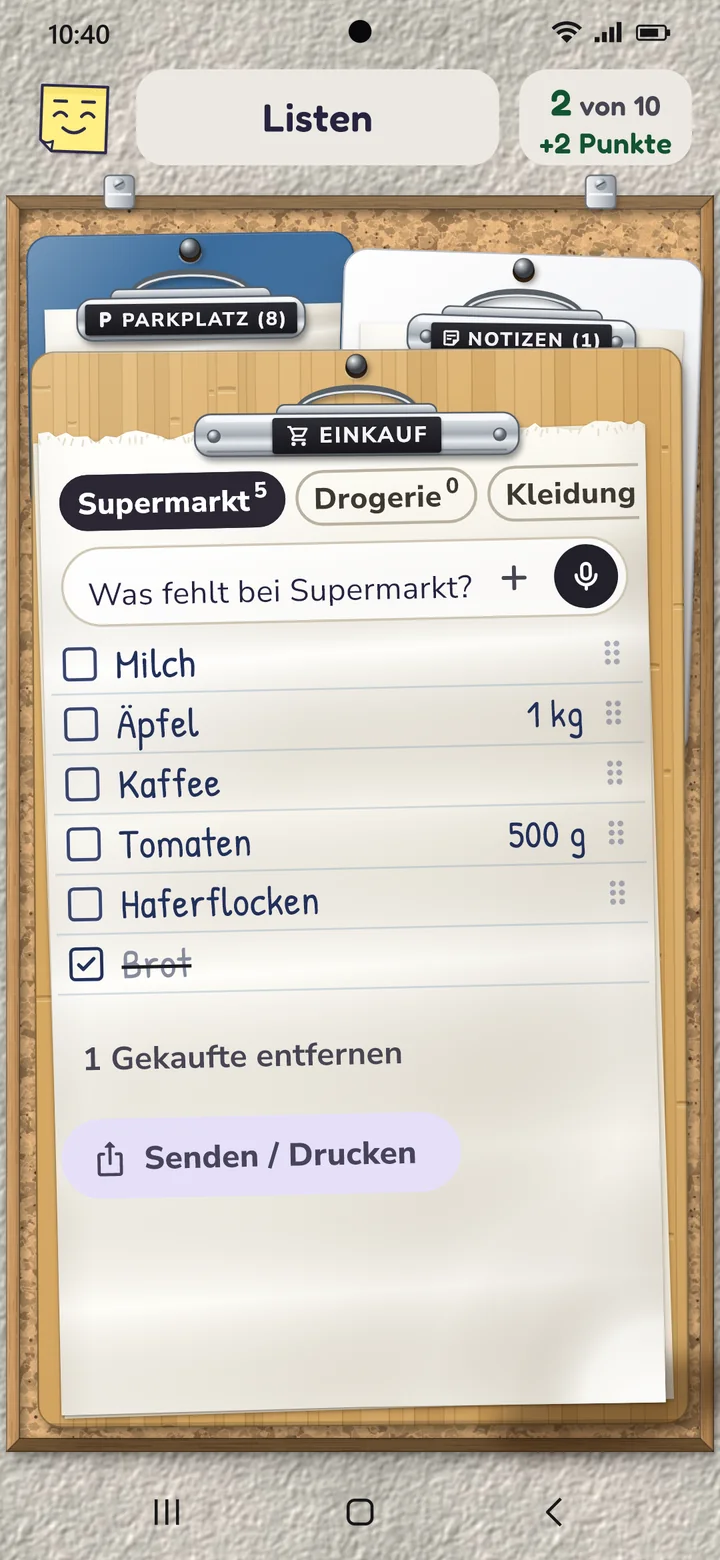
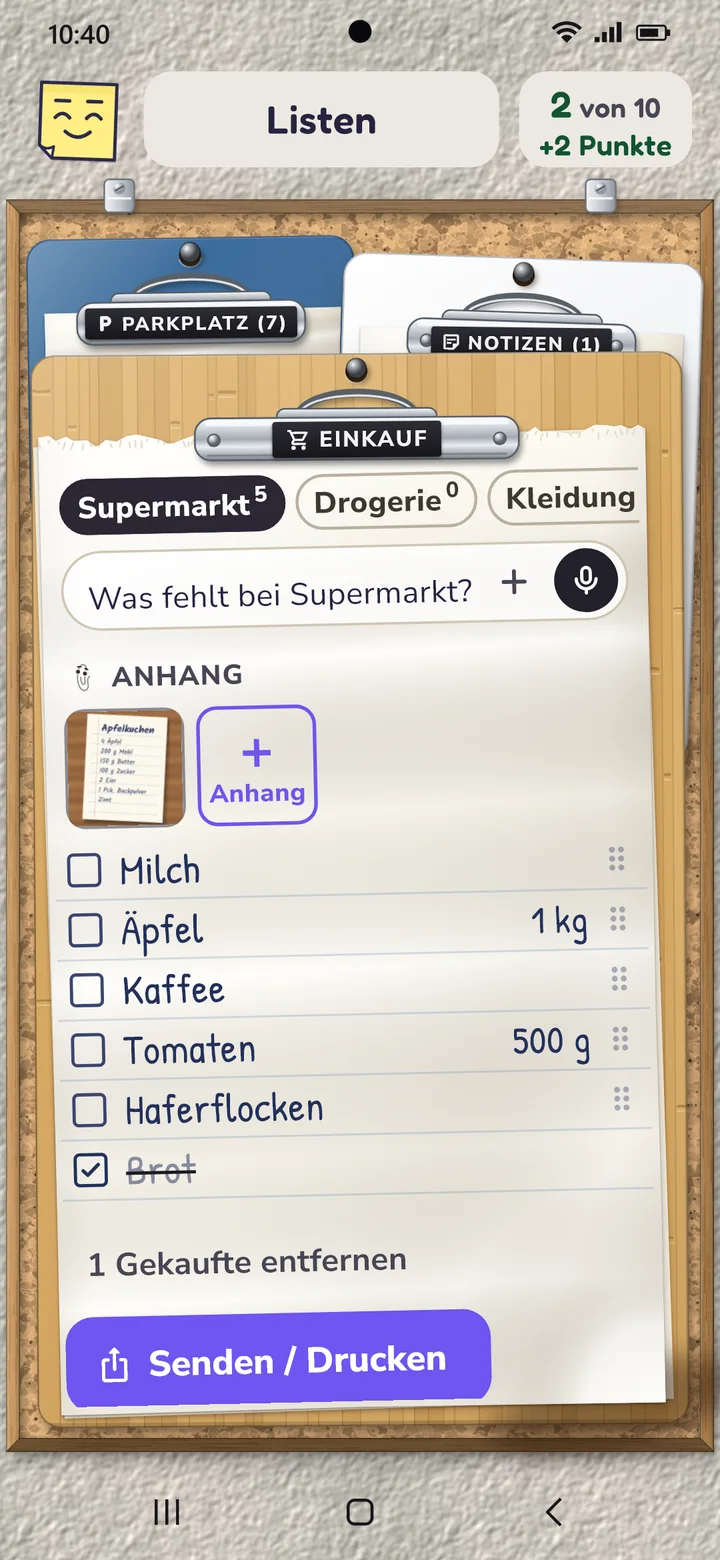
Webseite: Ablauf, Schule, grosses und kleine Widgets, Anhaenge; Datenschutz mit Anhaengen und Radio-Weckklang (Andreas 12.11.: Ja, alles online)

diff --git a/index.html b/index.html
@@ -42,7 +42,7 @@
   "image": "https://tenanddone.app/img/og.jpg",
   "screenshot": ["https://tenanddone.app/img/brett.webp", "https://tenanddone.app/img/zeitleiste.webp", "https://tenanddone.app/img/fortschritt.webp"],
   "offers": { "@type": "Offer", "price": "0", "priceCurrency": "EUR" },
-  "featureList": "10 Aufgaben am Tag, Top-Thema, Gewohnheiten-Tracker, Fokus-Timer, Kalender und Termine, Geburtstage und Jahrestage, Zeitleiste, Einkaufsliste, Notizen und Checklisten, Widget, Tablet, Drucken als PDF, Fortschritt, neun Stile"
+  "featureList": "10 Aufgaben am Tag, Top-Thema, Gewohnheiten-Tracker, Fokus-Timer, Kalender und Termine, Geburtstage und Jahrestage, Zeitleiste, Einkaufsliste, Notizen und Checklisten, Anhänge, Abläufe mit Countdown, Stundenplan, Widget, Tablet, Drucken als PDF, Fortschritt, neun Stile"
 }
 </script>
 <script type="application/ld+json">
@@ -142,6 +142,18 @@
         </figure>
         <figure>
           <picture>
+            <img src="img/ablauf.webp" width="720" height="1560" loading="lazy" alt="Ablauf „Zur Arbeit“ groß: los 07:40, da 08:00, ein grüner Ring mit 31 Minuten bis los, die Ampel auf Grün mit Haken und „im Plan“; jetzt Kaffee mit dem Knopf „Fertig – weiter“, darunter die Schritte Duschen, Anziehen und Weg mit Uhrzeiten.">
+          </picture>
+          <figcaption><h3>Der Ablauf</h3><span>Schritt für Schritt aus dem Haus. Der Ring zählt bis zum Losgehen, die Ampel zeigt, ob du in der Zeit bist.</span></figcaption>
+        </figure>
+        <figure>
+          <picture>
+            <img src="img/schule.webp" width="720" height="1560" loading="lazy" alt="Brett einer Schülerin, oben das Band „Schule bis 13:20 · jetzt Bio“ und „Morgen Test: Mathe“, darunter Zettel wie „Referat Geschichte“, „Zahnarzt“ und „Mama anrufen“.">
+          </picture>
+          <figcaption><h3>Die Schule</h3><span>Der Stundenplan liegt oben auf dem Brett: was gerade dran ist und ob morgen ein Test kommt. Er belegt keinen der zehn Plätze.</span></figcaption>
+        </figure>
+        <figure>
+          <picture>
             <img src="img/fortschritt.webp" width="720" height="1560" loading="lazy" alt="Fortschritt der letzten 4 Wochen: ein Baum aus kleinen Zetteln als Blätter, 229 erledigte Dinge und die Anzeige „Voller Schwung“.">
           </picture>
           <figcaption><h3>Der Fortschritt</h3><span>Woche, 4 Wochen, Jahr: was du geschafft hast, wann es gut läuft, welche Gewohnheiten halten. Jedes erledigte Ding wird ein Blatt am Baum.</span></figcaption>
@@ -150,25 +162,15 @@
           <picture>
             <img src="img/listen.webp" width="720" height="1560" loading="lazy" alt="Listen als Klemmbretter: vorn die Einkaufsliste für den Supermarkt mit Milch, Äpfeln, Kaffee, Tomaten und Haferflocken, dahinter Parkplatz und Notizen.">
           </picture>
-          <figcaption><h3>Die Listen</h3><span>Einkaufsliste nach Läden, Parkplatz und Notizen. Einsprechen geht auch.</span></figcaption>
+          <figcaption><h3>Die Listen</h3><span>Einkaufsliste nach Läden, Parkplatz und Notizen. Einsprechen geht auch. Listen, Fotos und PDFs hängst du direkt an einen Zettel.</span></figcaption>
         </figure>
         <figure>
-          <img src="img/checkliste.webp" width="720" height="1560" loading="lazy" alt="Ein geöffneter Zettel „Steuer machen“ mit Checkliste: zwei von vier Punkten abgehakt, darunter der Knopf „Erledigt“.">
-          <figcaption><h3>Checkliste am Zettel</h3><span>Untertitel und Liste direkt an der Aufgabe. Abhaken, ergänzen, mitnehmen auf morgen.</span></figcaption>
+          <img src="img/widget_gross.webp" width="720" height="1560" loading="lazy" alt="Startbildschirm eines Android-Handys, fast ganz ausgefüllt vom großen Brett-Widget im Kork-Stil: oben der Morgen-Ablauf mit seinen Schritten, darunter zehn Zettel mit Kästchen zum Abhaken, Extras, eine Notiz und unten das Feld „Schreiben …“ mit Mikrofon.">
+          <figcaption><h3>Das große Widget</h3><span>Dein ganzer Tag auf dem Startbildschirm, im Stil deines Bretts: abhaken, den nächsten Ablauf-Schritt antippen, eine Notiz lesen, Neues schreiben oder einsprechen – ohne die App zu öffnen.</span></figcaption>
         </figure>
         <figure>
-          <img src="img/widget_kork.webp" width="720" height="1560" loading="lazy" alt="Startbildschirm eines Android-Handys mit dem Brett-Widget im Kork-Stil: neun Zettel mit Uhrzeit und Kästchen zum Abhaken und ein freier Platz, oben Mikrofon und Plus. Darunter das kleine Widget mit Mikrofon.">
-          <figcaption><h3>Das Widget</h3><span>Dein Tagesplan auf dem Startbildschirm, im Stil deines Bretts. Abhaken, hochzählen, Fokus Zeit starten – ohne die App zu öffnen. Darunter das kleine Widget für Android: Mikrofon antippen und lossprechen.</span></figcaption>
-        </figure>
-        <figure>
-          <img src="img/widget_klein.webp" width="720" height="1560" loading="lazy" alt="Startbildschirm eines Android-Handys mit dem Mini-Widget im Stil Bento: oben die Zahl offener Zettel, Mikrofon und Plus, darunter die nächsten Zettel mit Kästchen zum Abhaken.">
-          <figcaption><h3>Das Mini-Widget</h3><span>Deine nächsten Zettel auf kleinem Platz, zum Abhaken. Die Widgets folgen deinem Stil, hier Bento. Das Mini-Widget gibt es mit Premium.</span></figcaption>
-        </figure>
-        <figure>
-          <picture>
-            <img src="img/fenster.webp" width="720" height="1560" loading="lazy" alt="Stil Fenster: die Zettel kleben auf einer Fensterscheibe mit Blick auf Berge, außen eine Backsteinwand.">
-          </picture>
-          <figcaption><h3>Das Fenster</h3><span>Zettel auf der Scheibe, dahinter Meer, Berge, Stadt – oder dein eigenes Foto.</span></figcaption>
+          <img src="img/widget_klein.webp" width="720" height="1560" loading="lazy" alt="Startbildschirm eines Android-Handys mit drei kleinen Widgets: links „Nächste 5“ im Stil Bento mit Kästchen zum Abhaken, darunter das runde Ten-&amp;-Done-Symbol mit Mikrofon zum Einsprechen, rechts der Stundenplan des Tages mit Fächern und Uhrzeiten.">
+          <figcaption><h3>Die kleinen Widgets</h3><span>Links die nächsten fünf Zettel zum Abhaken (mit Premium), darunter ein Knopf zum Einsprechen, rechts der Stundenplan mit Ausfall und Tests (beide kostenlos).</span></figcaption>
         </figure>
       </div>
     </div>
@@ -183,15 +185,15 @@
       </div>
       <div class="grid2 grid3">
         <div class="feature wide"><span class="tag t-c" aria-hidden="true">🎙</span><div><h3>Einfach einsprechen</h3><p>Tipp aufs Mikrofon und sag, was ansteht. „Friseur am 3.11. um 13 Uhr“ wird ein Termin, „Bei Rewe Butter kaufen“ kommt auf die Einkaufsliste für Rewe. Am schnellsten geht es vom Startbildschirm: im Widget aufs Mikrofon tippen und lossprechen.</p></div></div>
-        <div class="feature"><span class="tag t-a" aria-hidden="true">10</span><div><h3>Zehn Plätze, ein Versprechen an dich</h3><p>Der elfte Gedanke muss warten. Ein Zettel ist dein Top-Thema. Du sagst fest zu, indem du den Knopf gedrückt hältst.</p></div></div>
+        <div class="feature"><span class="tag t-a" aria-hidden="true">10</span><div><h3>Zehn Plätze, ein Parkplatz für den Rest</h3><p>Der elfte Gedanke wartet auf dem Parkplatz, sonntags erinnert Tack dich daran. Ein Zettel ist dein Top-Thema. Du sagst fest zu, indem du den Knopf gedrückt hältst.</p></div></div>
         <div class="feature"><span class="tag t-b" aria-hidden="true">↻</span><div><h3>Gewohnheiten-Tracker</h3><p>Sport, Wasser trinken, kein Handy im Bett: Gewohnheiten erscheinen an ihren Tagen von selbst. Mit Strichliste und Serie.</p></div></div>
         <div class="feature"><span class="tag t-f" aria-hidden="true">⏱</span><div><h3>Fokus-Timer</h3><p>Handy umdrehen, die Fokus Zeit läuft. Auf Android ist „Nicht stören“ an, bis du es wieder hochnimmst. Auf dem iPhone zeigt der Sperrbildschirm die Restzeit.</p></div></div>
         <div class="feature"><span class="tag t-c" aria-hidden="true">📅</span><div><h3>Kalender und Zeitleiste</h3><p>Termine aus deinem Kalender kommen als Zettel aufs Brett, eigene landen in deinem Kalender – bei Google oder Apple, auf Wunsch mit Gästen. Tag oder Woche gibt es auch als PDF – für den Kühlschrank.</p></div></div>
         <div class="feature"><span class="tag t-f" aria-hidden="true">🎂</span><div><h3>Geburtstage und Jahrestage</h3><p>Sag einfach „Lena hat am 3. Mai Geburtstag“. Die App merkt es sich und erinnert dich ein paar Tage vorher.</p></div></div>
-        <div class="feature"><span class="tag t-a" aria-hidden="true">☰</span><div><h3>Einkaufsliste, Notizen, Checklisten</h3><p>Einkaufslisten, Notizen oder Checklisten auch per Sprache eingeben und an einen Zettel anhängen, ausdrucken oder per WhatsApp teilen.</p></div></div>
+        <div class="feature"><span class="tag t-a" aria-hidden="true">☰</span><div><h3>Listen, Notizen und Anhänge</h3><p>Einkaufslisten, Notizen oder Checklisten auch per Sprache eingeben, an einen Zettel anhängen, ausdrucken oder per WhatsApp teilen. Fotos und PDFs kommen direkt an den Zettel.</p></div></div>
         <div class="feature"><span class="tag t-c" aria-hidden="true">⛰</span><div><h3>Große Brocken in Schritten</h3><p>Ist dir etwas zu groß, teilst du es in drei bis fünf kleine Schritte. Aufs Brett kommt immer nur der nächste, der letzte ist der Gipfel.</p></div></div>
-        <div class="feature"><span class="tag t-a" aria-hidden="true">P</span><div><h3>Ein Parkplatz für alles andere</h3><p>Alles darf auf die Liste – aufs Brett kommen nur zehn. Der Rest wartet auf dem Parkplatz. Sonntags erinnert Tack dich an das, was dort schon lange steht.</p></div></div>
-        <div class="feature"><span class="tag t-f" aria-hidden="true">▦</span><div><h3>Widget für den Startbildschirm</h3><p>Dein Tagesplan im Stil deines Bretts. Abhaken, ohne die App zu öffnen. Und übers Mikrofon neue Aufgaben einsprechen.</p></div></div>
+        <div class="feature"><span class="tag t-a" aria-hidden="true">🏫</span><div><h3>Stundenplan für die Schule</h3><p>Einsprechen oder eintragen, dann steht der Schultag oben auf dem Brett – ohne einen der zehn Plätze. Ausfall und Vertretung mit einem Tipp, Tests und Klausuren am Tag vorher. Ferien kommen von selbst. Kostenlos.</p></div></div>
+        <div class="feature"><span class="tag t-b" aria-hidden="true">⏰</span><div><h3>Abläufe mit Countdown</h3><p>Kaffee, Duschen, Anziehen, Weg: jeder Schritt mit seiner Dauer. Ten &amp; Done rechnet aus, wann du anfangen musst, und weckt dich auf Wunsch. Ein Ablauf ist frei, mehr gibt es mit Premium.</p></div></div>
       </div>
     </div>
   </section>
@@ -279,6 +281,8 @@
             <li>Gewohnheiten, Fokus Zeit, Kalender</li>
             <li>Zeitleiste, Einkaufsliste, Parkplatz, Notizen</li>
             <li>Brett-Widget und Einsprechen</li>
+            <li>Stundenplan mit Widget</li>
+            <li>Ein Ablauf mit Countdown, ein Anhang je Zettel</li>
             <li>Fortschritt der Woche</li>
             <li>Stile Kork und Klar</li>
           </ul>
@@ -290,6 +294,7 @@
             <li>Dein eigenes Foto am Brett, dazu ein zweites Accessoire</li>
             <li>Fortschritt über 4 Wochen und das ganze Jahr</li>
             <li>Große Aufgaben in Schritten</li>
+            <li>Mehrere Abläufe und bis zu 5 Anhänge je Zettel</li>
             <li>Gäste zu Terminen einladen</li>
             <li>Zwei weitere Widgets: „Nächste 5“ und Liste</li>
             <li>Automatische Sicherung bei Google Drive (auf Android)</li>

diff --git a/en/index.html b/en/index.html
@@ -41,7 +41,7 @@
   "image": "https://tenanddone.app/img/og_en.jpg",
   "screenshot": ["https://tenanddone.app/img/brett_en.webp", "https://tenanddone.app/img/zeitleiste_en.webp", "https://tenanddone.app/img/fortschritt_en.webp"],
   "offers": { "@type": "Offer", "price": "0", "priceCurrency": "EUR" },
-  "featureList": "10 tasks a day, top task, habit tracker, focus timer, calendar and events, birthdays and anniversaries, timeline, shopping list, notes and checklists, widget, tablet, print as PDF, progress, nine styles"
+  "featureList": "10 tasks a day, top task, habit tracker, focus timer, calendar and events, birthdays and anniversaries, timeline, shopping list, notes and checklists, attachments, routines with a countdown, school timetable, widget, tablet, print as PDF, progress, nine styles"
 }
 </script>
 <script type="application/ld+json">
@@ -136,28 +136,32 @@
           <figcaption><h3>The timeline</h3><span>Your daily plan by time. Move notes with your finger, tap free time to plan it.</span></figcaption>
         </figure>
         <figure>
+          <picture>
+            <img src="../img/ablauf_en.webp" width="720" height="1560" loading="lazy" alt="The routine “Off to work” in full screen: leave 7:40, arrive 8:00, a green ring with 31 minutes until you leave, the traffic light on green with a check mark and “on track”; now Coffee with the button “Done – next”, below it the steps Shower, Get dressed and Commute with times.">
+          </picture>
+          <figcaption><h3>Routines</h3><span>Out of the house step by step. The ring counts down to leaving, the traffic light shows whether you are on time.</span></figcaption>
+        </figure>
+        <figure>
+          <picture>
+            <img src="../img/schule_en.webp" width="720" height="1560" loading="lazy" alt="A student’s board, at the top the band “School until 13:20 · now Biology” and “Test tomorrow: Math”, below it notes such as “History presentation”, “Dentist” and “Call Mom”.">
+          </picture>
+          <figcaption><h3>School</h3><span>Your timetable sits at the top of the board: what’s on right now and whether there’s a test tomorrow. It doesn’t take up any of the ten spots.</span></figcaption>
+        </figure>
+        <figure>
           <img src="../img/fortschritt_en.webp" width="720" height="1560" loading="lazy" alt="Progress over 4 weeks: a tree whose leaves are small notes, 229 things done and the gauge “Full swing”.">
           <figcaption><h3>Progress</h3><span>Week, 4 weeks, year: what you got done, when things go well, which habits stick. Every finished task becomes a leaf on your tree.</span></figcaption>
         </figure>
         <figure>
           <img src="../img/listen_en.webp" width="720" height="1560" loading="lazy" alt="Lists as clipboards: in front the supermarket shopping list with milk, apples, coffee, tomatoes and oats, behind it parking spot and notes.">
-          <figcaption><h3>Lists</h3><span>Shopping list per store, parking spot and notes. Saying them works too.</span></figcaption>
+          <figcaption><h3>Lists</h3><span>Shopping list per store, parking spot and notes. Saying them works too. Attach lists, photos and PDFs right to a note.</span></figcaption>
         </figure>
         <figure>
-          <img src="../img/checkliste_en.webp" width="720" height="1560" loading="lazy" alt="An open note “Do my taxes” with a checklist: two of four items checked, below it the “Done” button.">
-          <figcaption><h3>Checklist on a note</h3><span>Subtitle and list right on the task. Check off, add, carry over to tomorrow.</span></figcaption>
+          <img src="../img/widget_gross_en.webp" width="720" height="1560" loading="lazy" alt="Android home screen almost filled by the large board widget in cork style: the morning routine with its steps at the top, below it ten notes with check boxes, extras, a memo and at the bottom the field “Write …” with a microphone.">
+          <figcaption><h3>The large widget</h3><span>Your whole day on the home screen, in the style of your board: check off, tap the next routine step, read a memo, write or say something new – without opening the app.</span></figcaption>
         </figure>
         <figure>
-          <img src="../img/widget_kork_en.webp" width="720" height="1560" loading="lazy" alt="Android home screen with the board widget in cork style: nine notes with times and check boxes and one free spot, microphone and plus at the top. Below it the small widget with a microphone.">
-          <figcaption><h3>The widget</h3><span>Your daily plan on the home screen, in the style of your board. Check off, count up, start focus time – without opening the app. Below it the small widget for Android: tap the microphone and start talking.</span></figcaption>
-        </figure>
-        <figure>
-          <img src="../img/widget_klein_en.webp" width="720" height="1560" loading="lazy" alt="Android home screen with the mini widget in Bento style: the number of open notes at the top, microphone and plus, below it your next notes with check boxes.">
-          <figcaption><h3>The mini widget</h3><span>Your next notes in a small space, ready to check off. Widgets follow your style, Bento here. The mini widget comes with Premium.</span></figcaption>
-        </figure>
-        <figure>
-          <img src="../img/fenster_en.webp" width="720" height="1560" loading="lazy" alt="Window style: notes stuck on a pane of glass with a view of the mountains, a brick wall around it.">
-          <figcaption><h3>The window</h3><span>Notes on the glass, behind them sea, mountains, city – or your own photo.</span></figcaption>
+          <img src="../img/widget_klein_en.webp" width="720" height="1560" loading="lazy" alt="Android home screen with three small widgets: on the left “Next 5” in Bento style with check boxes, below it the round Ten &amp; Done icon with a microphone for speaking, on the right today’s timetable with subjects and times.">
+          <figcaption><h3>The small widgets</h3><span>On the left your next five notes to check off (with Premium), below it a button to just say something, on the right your timetable with cancelled lessons and tests (both free).</span></figcaption>
         </figure>
       </div>
     </div>
@@ -172,15 +176,15 @@
       </div>
       <div class="grid2 grid3">
         <div class="feature wide"><span class="tag t-c" aria-hidden="true">🎙</span><div><h3>Just say it</h3><p>Tap the mic and say what’s coming up. “Haircut on November 3 at 1 pm” becomes an event, “Buy milk and bread at Aldi” goes on your Aldi shopping list. It’s quickest from your home screen: tap the mic in the widget and start talking.</p></div></div>
-        <div class="feature"><span class="tag t-a" aria-hidden="true">10</span><div><h3>Ten spots, one promise to yourself</h3><p>The eleventh thought has to wait. One note is your top task. You commit by pressing and holding the button.</p></div></div>
+        <div class="feature"><span class="tag t-a" aria-hidden="true">10</span><div><h3>Ten spots, a parking spot for the rest</h3><p>The eleventh thought waits in the parking spot, and on Sundays Tack reminds you of it. One note is your top task. You commit by pressing and holding the button.</p></div></div>
         <div class="feature"><span class="tag t-b" aria-hidden="true">↻</span><div><h3>Habit tracker</h3><p>Exercise, drink water, no phone in bed: habits show up on their days by themselves. With a tally and a streak.</p></div></div>
         <div class="feature"><span class="tag t-f" aria-hidden="true">⏱</span><div><h3>Focus timer</h3><p>Flip your phone over and Focus Time runs. On Android, Do Not Disturb stays on until you pick it up again. On iPhone, the lock screen shows the time left.</p></div></div>
         <div class="feature"><span class="tag t-c" aria-hidden="true">📅</span><div><h3>Calendar and timeline</h3><p>Events from your calendar appear as notes on your board, your own go into your calendar – Google or Apple, with guests if you like. Your day or week also comes as a PDF – for the fridge.</p></div></div>
         <div class="feature"><span class="tag t-f" aria-hidden="true">🎂</span><div><h3>Birthdays and anniversaries</h3><p>Just say “Lena’s birthday is May 3”. The app remembers and reminds you a few days ahead.</p></div></div>
-        <div class="feature"><span class="tag t-a" aria-hidden="true">☰</span><div><h3>Shopping list, notes, checklists</h3><p>Enter shopping lists, notes or checklists by voice too, attach them to a note, print them or share them via WhatsApp.</p></div></div>
+        <div class="feature"><span class="tag t-a" aria-hidden="true">☰</span><div><h3>Lists, notes and attachments</h3><p>Enter shopping lists, notes or checklists by voice too, attach them to a note, print them or share them via WhatsApp. Photos and PDFs go right on the note.</p></div></div>
         <div class="feature"><span class="tag t-c" aria-hidden="true">⛰</span><div><h3>Big tasks in steps</h3><p>If something feels too big, split it into three to five small steps. Only the next one goes on the board, and the last one is the summit.</p></div></div>
-        <div class="feature"><span class="tag t-a" aria-hidden="true">P</span><div><h3>A parking spot for everything else</h3><p>Everything may go on the list – only ten go on the board. The rest waits in the parking spot. On Sundays Tack reminds you of what has been waiting there for a while.</p></div></div>
-        <div class="feature"><span class="tag t-f" aria-hidden="true">▦</span><div><h3>Home screen widget</h3><p>Your daily plan in the style of your board. Check things off without opening the app. And tap the mic to add new tasks by voice.</p></div></div>
+        <div class="feature"><span class="tag t-a" aria-hidden="true">🏫</span><div><h3>School timetable</h3><p>Say it or type it, and the school day sits at the top of your board – without taking one of the ten spots. Cancelled lessons and substitutes with one tap, tests and exams the day before. School holidays in Germany and Austria fill in by themselves. Free.</p></div></div>
+        <div class="feature"><span class="tag t-b" aria-hidden="true">⏰</span><div><h3>Routines with a countdown</h3><p>Coffee, shower, get dressed, commute: each step with its time. Ten &amp; Done works out when you need to start and wakes you if you like. One routine is free, more come with Premium.</p></div></div>
       </div>
     </div>
   </section>
@@ -268,6 +272,8 @@
             <li>Habits, Focus Time, calendar</li>
             <li>Timeline, shopping list, parking spot, notes</li>
             <li>Board widget and voice input</li>
+            <li>School timetable with widget</li>
+            <li>One routine with a countdown, one attachment per note</li>
             <li>Progress of the week</li>
             <li>Cork and Clear styles</li>
           </ul>
@@ -279,6 +285,7 @@
             <li>Your own photo on the board, plus a second accessory</li>
             <li>Progress over 4 weeks and the whole year</li>
             <li>Big tasks in steps</li>
+            <li>More routines and up to 5 attachments per note</li>
             <li>Invite guests to events</li>
             <li>Two more widgets: “Next 5” and list</li>
             <li>Automatic backup to Google Drive (on Android)</li>

diff --git a/datenschutz.html b/datenschutz.html
@@ -45,14 +45,18 @@
   <li><b>Bewegungssensor</b>, um zu erkennen, ob das Handy während der Fokus Zeit umgedreht liegt. Die Werte werden nicht gespeichert.</li>
   <li><b>Kalender</b>, nur wenn du ihn einschaltest. Die App zeigt deine Termine als Zettel. Legst du in der App einen Termin an oder trägst einen Geburtstag oder Jahrestag ein, schreibt sie ihn in deinen Kalender (auf Android den Google-Kalender, auf dem iPhone deinen Standardkalender, etwa iCloud oder Google); andere Termine ändert sie nicht. Lädst du Gäste ein, verschickt der Kalenderdienst (Google bzw. Apple) die Einladung an die E-Mail-Adressen, die du einträgst – dafür gelten dessen Datenschutzhinweise.</li>
   <li><b>Fotos</b>, nur das Bild, das du selbst für dein Brett oder die Fenster-Aussicht auswählst. Die App legt davon eine Kopie auf deinem Handy ab.</li>
+  <li><b>Anhänge an Zetteln</b> (Foto, Bild oder Screenshot, PDF), nur was du selbst anhängst – mit der Kamera, aus deinen Bildern oder aus deinen Dateien. Die App legt eine Kopie auf deinem Handy ab, Bilder verkleinert. Die Kamera nutzt sie nur, wenn du „Foto aufnehmen“ wählst.</li>
 </ul>
 <h2>Sicherung des Handys</h2>
 <p><b>Android:</b> Hast du auf deinem Handy die Google-Sicherung eingeschaltet, legt Android die Daten der App in deinem Google-Konto ab, damit du sie auf ein neues Handy mitnehmen kannst. Hast du eine Displaysperre (PIN, Muster oder Passwort), verschlüsselt Android die Sicherung damit. Dann kann sie nur öffnen, wer die Sperre kennt – auch Google nicht. Ohne Displaysperre verschlüsselt Google die Sicherung mit einem eigenen Schlüssel. Das macht Android, nicht die App; dafür gelten die Datenschutzhinweise von Google. Wir haben auf diese Sicherung keinen Zugriff. Ein- und ausschalten kannst du sie in den Android-Einstellungen.</p>
 <p><b>iPhone:</b> Ist das iCloud-Backup eingeschaltet, legt Apple die Daten der App in deiner iCloud ab, damit du sie auf ein neues iPhone mitnehmen kannst. Apple verschlüsselt das Backup. Ganz ohne Zugriff von Apple ist es nur, wenn du „Erweiterter Datenschutz für iCloud“ eingeschaltet hast. Das macht Apple, nicht die App; dafür gelten die Datenschutzhinweise von Apple. Wir haben darauf keinen Zugriff. Ein- und ausschalten kannst du es in den Einstellungen unter dein Name › iCloud › iCloud-Backup.</p>
 <h2>Sicherung mit Google Drive</h2>
-<p>Mit Premium kannst du auf Android freiwillig „Mit Google sichern“ einschalten. Dann legt die App eine Kopie deiner Daten (Zettel, Listen, Notizen, Einstellungen, Fotos fürs Brett, auch Termine, die als Zettel auf dem Brett stehen, und die Namen deiner Kalender) in einem versteckten App-Ordner deines eigenen Google Drive ab. Die App bekommt dafür nur Zugriff auf diesen einen Ordner (Berechtigung <code>drive.appdata</code>), nicht auf deine anderen Dateien in Google Drive. Außerdem sieht die App die E-Mail-Adresse des gewählten Google-Kontos, um sie dir anzuzeigen; sie bleibt auf deinem Gerät.</p>
+<p>Mit Premium kannst du auf Android freiwillig „Mit Google sichern“ einschalten. Dann legt die App eine Kopie deiner Daten (Zettel, Listen, Notizen, Einstellungen, Fotos fürs Brett, Anhänge an Zetteln, auch Termine, die als Zettel auf dem Brett stehen, und die Namen deiner Kalender) in einem versteckten App-Ordner deines eigenen Google Drive ab. Die App bekommt dafür nur Zugriff auf diesen einen Ordner (Berechtigung <code>drive.appdata</code>), nicht auf deine anderen Dateien in Google Drive. Außerdem sieht die App die E-Mail-Adresse des gewählten Google-Kontos, um sie dir anzuzeigen; sie bleibt auf deinem Gerät.</p>
 <p>Die Daten gehen direkt von deinem Gerät zu Google, nicht über uns. Wir haben keinen Zugriff darauf und sehen sie nie. Die App nutzt die Daten aus Google Drive nur, um deine Sicherung abzulegen und auf Wunsch zurückzuholen; sie werden nicht weitergegeben und nicht für Werbung genutzt. Die Nutzung entspricht der <a href="https://developers.google.com/terms/api-services-user-data-policy">Google API Services User Data Policy</a> einschließlich der Anforderungen zur eingeschränkten Nutzung (Limited Use). Für die Speicherung gelten die Datenschutzhinweise von Google.</p>
 <p>Ausschalten und die Sicherung löschen kannst du in der App unter Sicherung oder in Google Drive › Einstellungen › Apps verwalten. Den Zugriff der App entziehst du unter myaccount.google.com › Sicherheit und Anmeldung › Verknüpfte Apps.</p>
+<h2>Radio als Weckklang</h2>
+<p>Mit Premium kannst du dich auf Android von einem Radiosender wecken lassen. Nur dann holt die App die Senderliste beim offenen Verzeichnis <b>radio-browser.info</b> (Gemeinschaftsprojekt, Server in Europa) – dabei gehen dein Land (z. B. „DE“) oder dein Suchwort mit. Beim Probehören und beim Wecken holt das Handy den Ton direkt beim gewählten Sender. Beide sehen dabei die IP-Adresse deines Handys, wie bei jedem Aufruf einer Webseite; die App schickt keinen Namen, keine Kennung und nichts aus deinen Zetteln mit. Für die Sender gelten deren eigene Datenschutzhinweise. Wir bekommen davon nichts. Ohne Radio als Weckklang spricht die App weder mit dem Verzeichnis noch mit einem Sender.</p>
+
 <h2>Fehlerbericht und „Problem melden“</h2>
 <p>Passiert in der App ein Fehler, merkt sie sich die Fehlermeldung auf deinem Handy (höchstens die erste und die letzte seit der letzten Nachfrage). Verschickt wird nichts von selbst. Beim nächsten Start fragt Tack, ob du Bescheid geben magst; auch „Problem melden“ in den Einstellungen bereitet eine E-Mail an uns vor. Sie enthält App-Version, gewählten Stil, Gerätemodell, Android- bzw. iOS-Version, Zeitpunkt, die erste Zeile der Fehlermeldung und die betroffenen Stellen im Programm – auf Android-Handys als Textdatei im Anhang, auf dem iPhone kurz unten im Text (dort ohne die Programmstellen).</p>
 <p>Inhalte deiner Zettel, Listen und Notizen sind nicht dabei: Texte, die du in der App eingegeben hast, und Text in Anführungszeichen blendet die App vorher aus. Du siehst die E-Mail, bevor du sie abschickst, und kannst alles löschen oder ändern. Nur wenn du sie selbst abschickst, erreicht sie uns. Wir verwenden die Angaben nur, um den Fehler zu finden und zu beheben, und löschen sie, sobald er behoben ist, spätestens nach sechs Monaten. Rechtsgrundlage ist deine Einwilligung, die du mit dem Abschicken gibst (Art. 6 Abs. 1 lit. a DSGVO).</p>

diff --git a/en/privacy.html b/en/privacy.html
@@ -45,14 +45,18 @@
   <li><b>Motion sensor</b>, to detect whether the phone is lying face down during Focus Time. The values are not stored.</li>
   <li><b>Calendar</b>, only if you turn it on. The app shows your events as notes. If you create an event in the app or enter a birthday or anniversary, it writes it to your calendar (Google Calendar on Android, your default calendar on iPhone, such as iCloud or Google); it does not change other events. If you invite guests, the calendar service (Google or Apple) sends the invitation to the email addresses you enter – that service’s privacy policy applies.</li>
   <li><b>Photos</b>, only the image you choose yourself for your board or the window view. The app keeps a copy of it on your phone.</li>
+  <li><b>Attachments on notes</b> (photo, picture or screenshot, PDF), only what you attach yourself – with the camera, from your pictures or from your files. The app keeps a copy on your phone, pictures made smaller. It only uses the camera when you choose “Take a photo”.</li>
 </ul>
 <h2>Phone backup</h2>
 <p><b>Android:</b> If you have turned on Google backup on your phone, Android stores the app’s data in your Google account so you can take it to a new phone. If you use a screen lock (PIN, pattern or password), Android encrypts the backup with it, so only someone who knows the lock can open it – not even Google. Without a screen lock, Google encrypts the backup with its own key. Android does this, not the app; Google’s privacy policy applies. We have no access to this backup. You can turn it on or off in Android Settings.</p>
 <p><b>iPhone:</b> If iCloud Backup is turned on, Apple stores the app’s data in your iCloud so you can take it to a new iPhone. Apple encrypts the backup; only with Advanced Data Protection for iCloud does Apple have no access to it. Apple does this, not the app; Apple’s privacy policy applies. We have no access to it. You can turn it on or off in Settings under your name › iCloud › iCloud Backup.</p>
 <h2>Backup with Google Drive</h2>
-<p>With Premium on Android, you can choose to turn on “Back up with Google”. The app then stores a copy of your data (notes, lists, memos, settings, photos for the board, also events that are on the board as notes, and the names of your calendars) in a hidden app folder in your own Google Drive. For this, the app only gets access to that one folder (the <code>drive.appdata</code> permission), not to your other files in Google Drive. The app also sees the email address of the chosen Google account in order to show it to you; it stays on your device.</p>
+<p>With Premium on Android, you can choose to turn on “Back up with Google”. The app then stores a copy of your data (notes, lists, memos, settings, photos for the board, attachments on notes, also events that are on the board as notes, and the names of your calendars) in a hidden app folder in your own Google Drive. For this, the app only gets access to that one folder (the <code>drive.appdata</code> permission), not to your other files in Google Drive. The app also sees the email address of the chosen Google account in order to show it to you; it stays on your device.</p>
 <p>The data goes directly from your device to Google, not through us. We have no access to it and never see it. The app uses the data from Google Drive only to store your backup and to restore it when you ask; it is not passed on and not used for advertising. This use complies with the <a href="https://developers.google.com/terms/api-services-user-data-policy">Google API Services User Data Policy</a>, including the Limited Use requirements. Google’s privacy policy applies to the storage.</p>
 <p>You can turn it off and delete the backup in the app under Backup, or in Google Drive › Settings › Manage apps. You remove the app’s access under myaccount.google.com › Security &amp; sign-in › Connected apps.</p>
+<h2>Radio as alarm sound</h2>
+<p>With Premium you can wake up to a radio station on Android. Only then does the app fetch the station list from the open directory <b>radio-browser.info</b> (community project, servers in Europe) – your country (e.g. “DE”) or your search word is sent along. When you listen to a preview and when the alarm rings, the phone fetches the sound directly from the chosen station. Both see your phone’s IP address, as with any web page; the app sends no name, no identifier and nothing from your notes. The stations’ own privacy notices apply. We receive none of this. Without radio as the alarm sound, the app talks neither to the directory nor to any station.</p>
+
 <h2>Error report and “Report a problem”</h2>
 <p>If an error happens in the app, it keeps the error message on your phone (at most the first and the last since it last asked you). Nothing is sent on its own. On the next start, Tack asks whether you’d like to let us know; “Report a problem” in the settings also prepares an email to us. It contains the app version, chosen style, device model, Android or iOS version, time, the first line of the error message and the affected places in the code – on Android phones as a text file attached, on iPhone briefly at the bottom of the text (there without the places in the code).</p>
 <p>The contents of your notes, lists and memos are not included: the app hides text you typed into it and text in quotation marks beforehand. You see the email before you send it and can delete or change anything. It only reaches us if you send it yourself. We use the details only to find and fix the error and delete them once it is fixed, after six months at the latest. The legal basis is your consent, which you give by sending it (Art. 6(1)(a) GDPR).</p>
